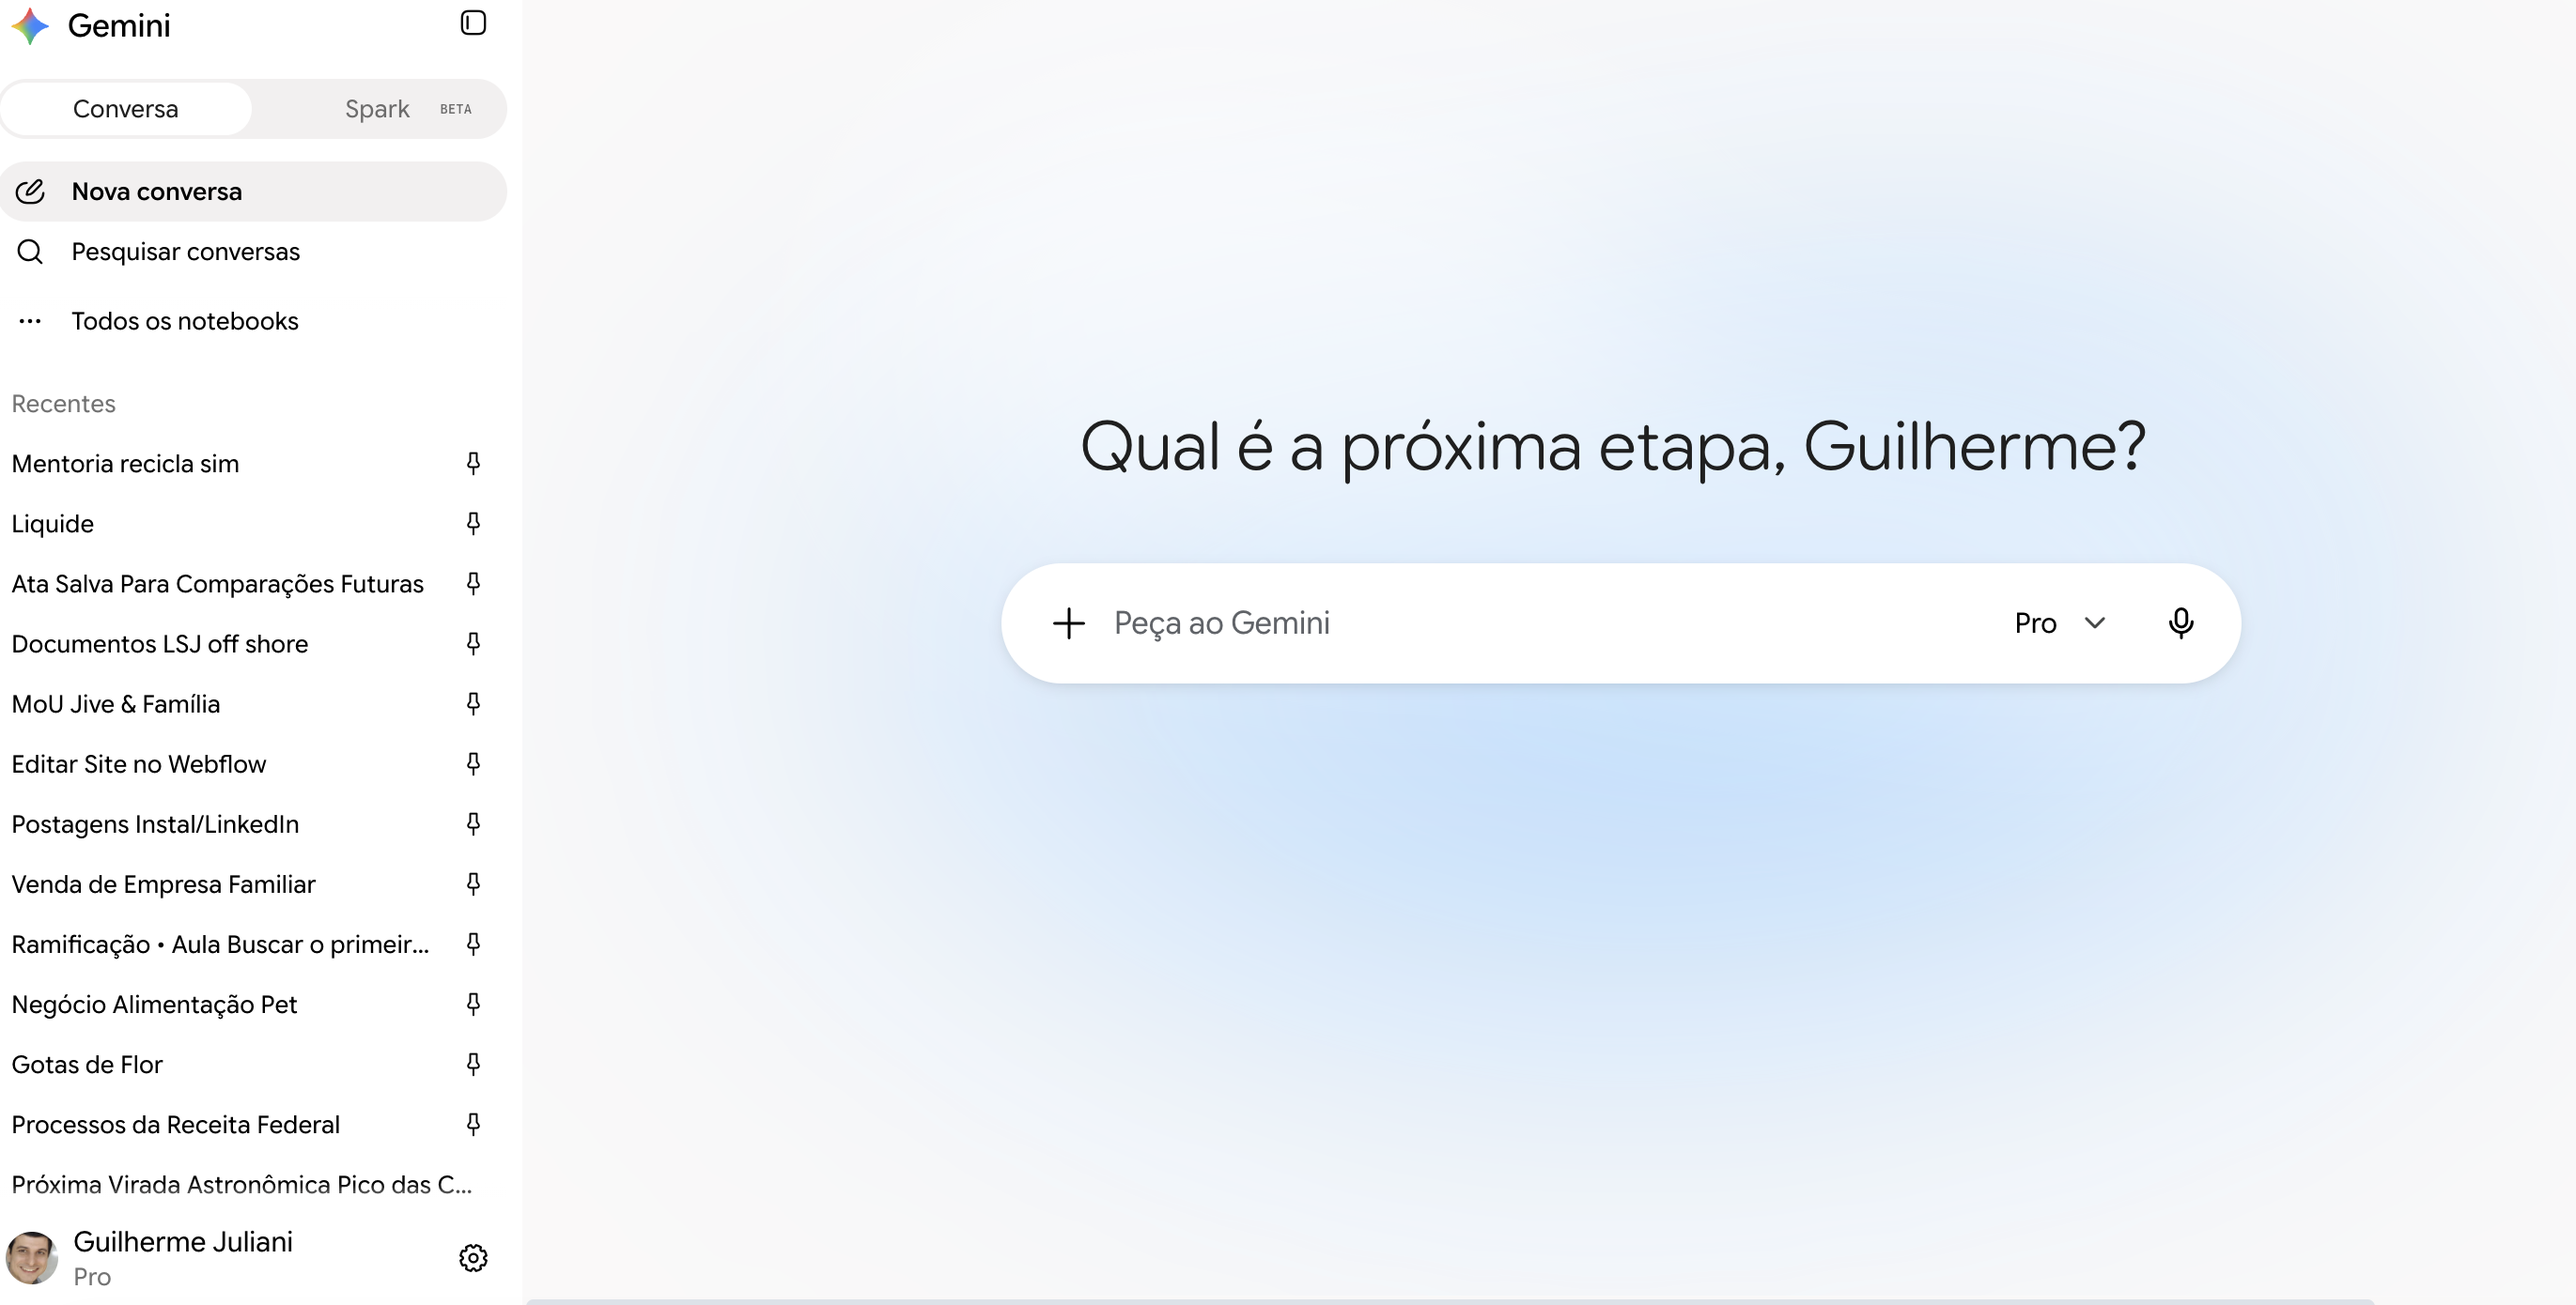
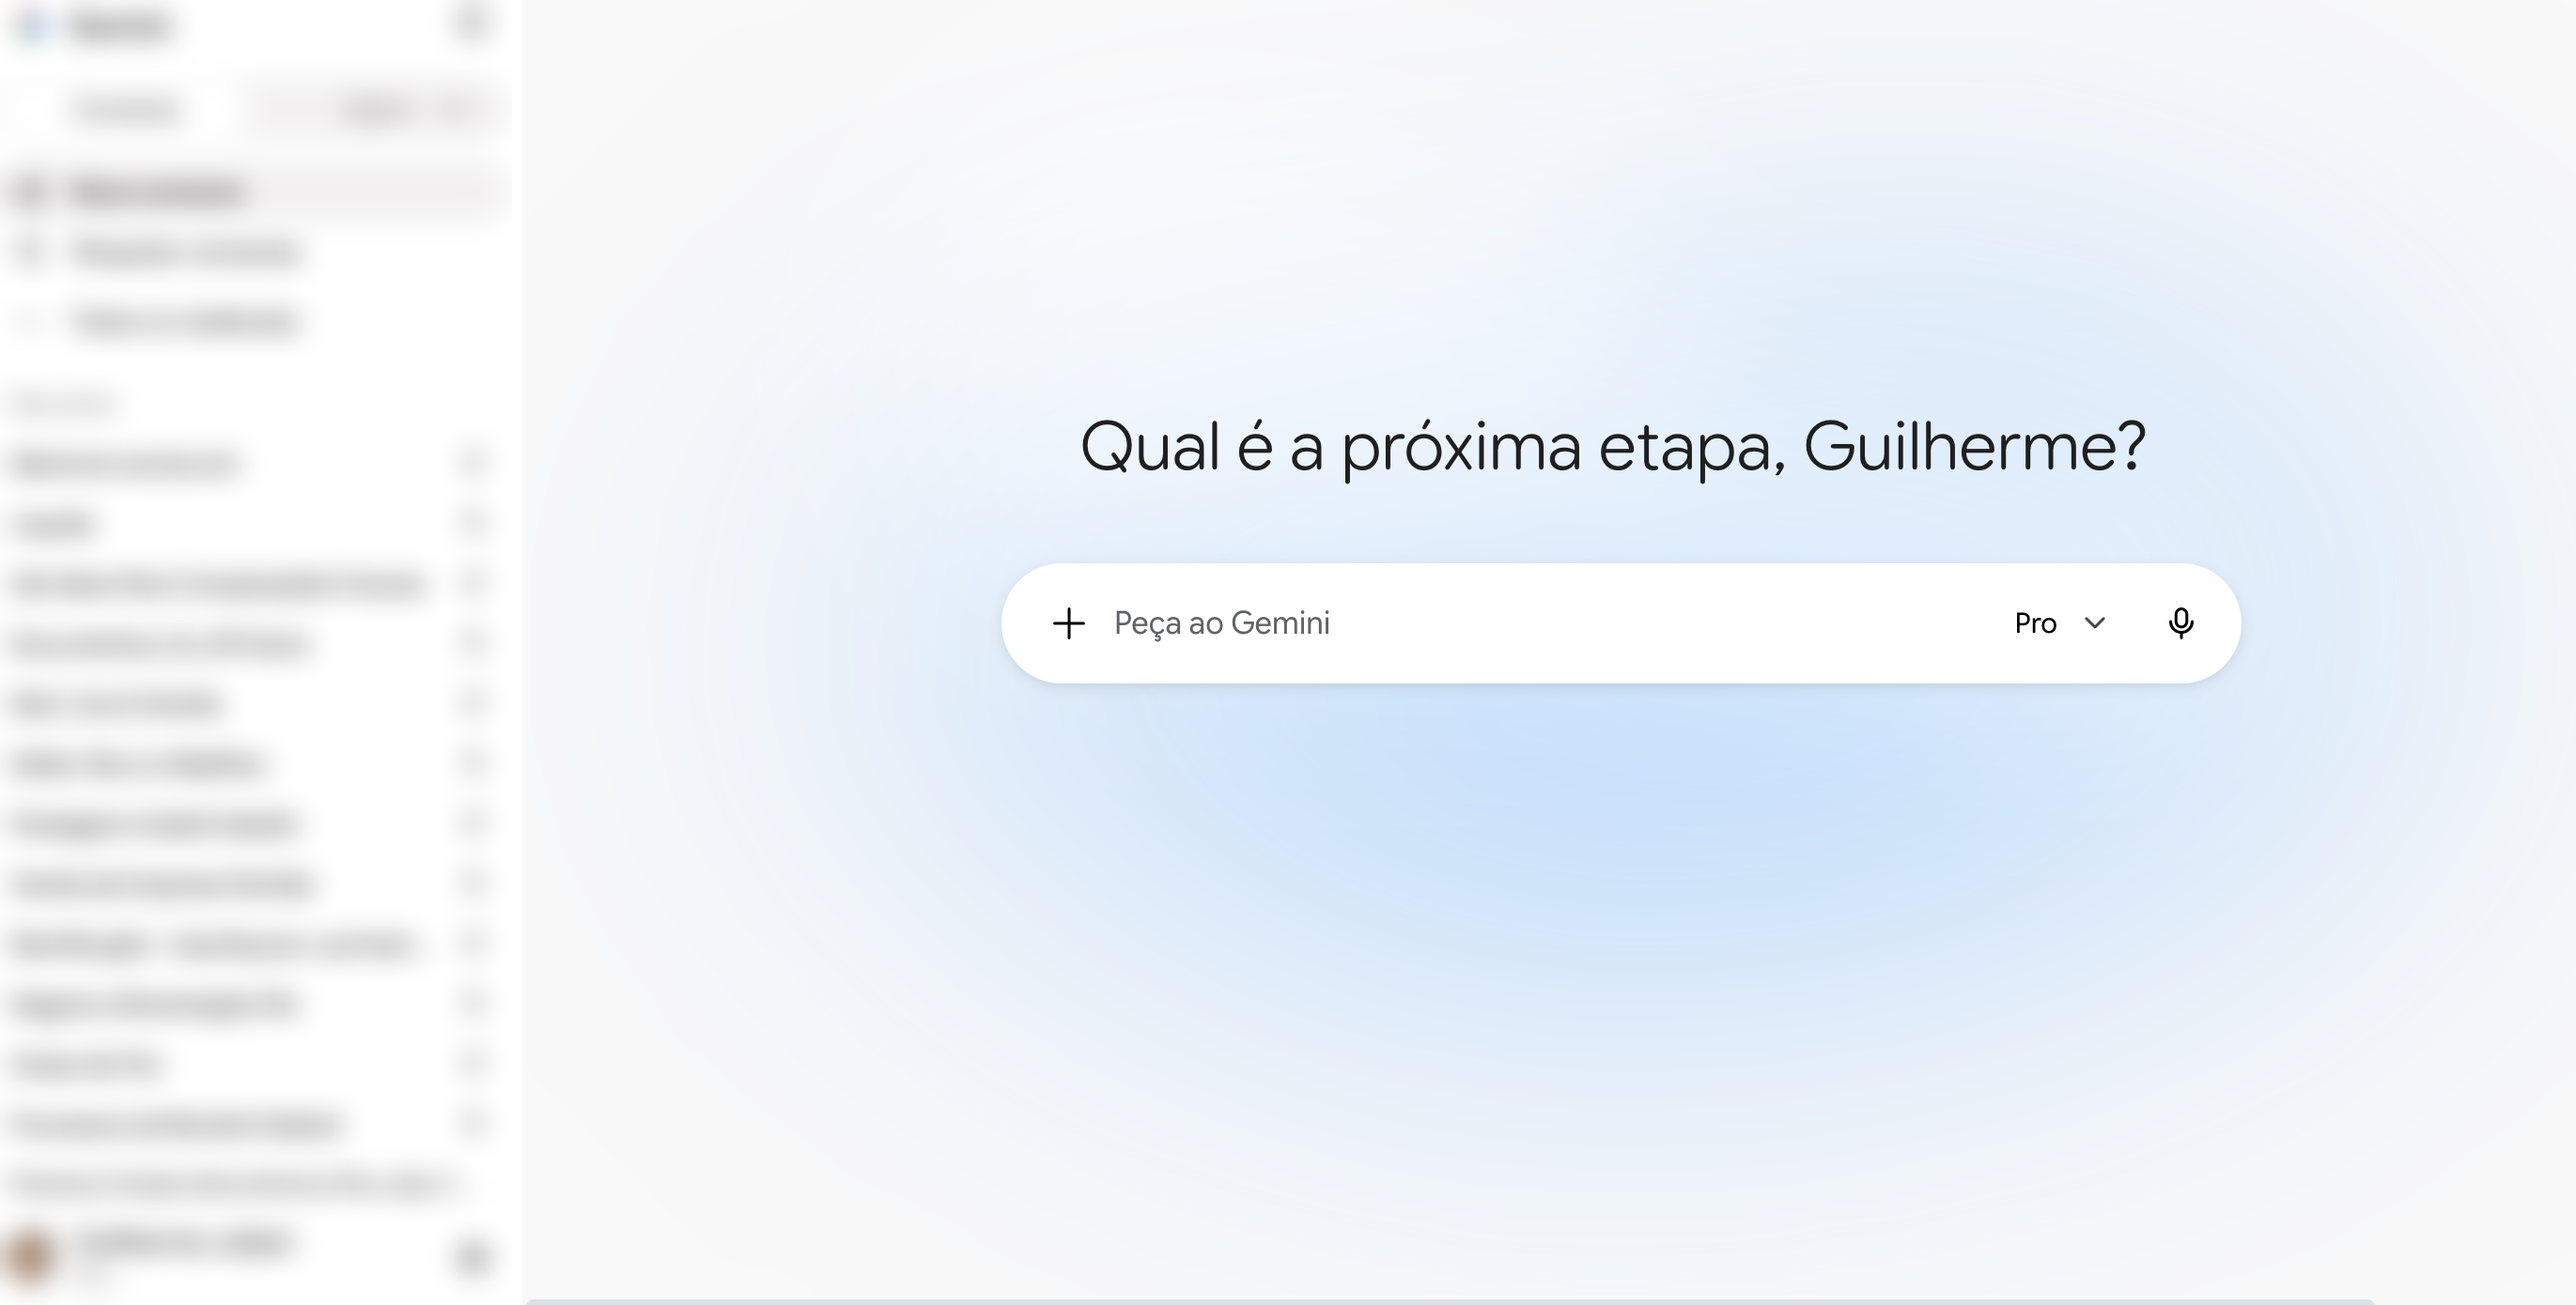
Add files via upload

diff --git a/index.html b/index.html
@@ -2161,14 +2161,14 @@
     updateAutoplayVideo();
   }
 
-  // Toca automaticamente o vídeo do slide 4 assim que ele é exibido
+  // Toca automaticamente o vídeo do slide 5 assim que ele é exibido
   // (mudo, pois navegadores bloqueiam autoplay com som sem interação prévia)
   // e pausa/reseta ao sair do slide, para funcionar tanto na navegação do
   // apresentador quanto na sincronização remota dos espectadores.
   function updateAutoplayVideo(){
-    const videoIframe = document.querySelector('.slide[data-slide="4"] iframe[data-video-src]');
+    const videoIframe = document.querySelector('.slide[data-slide="5"] iframe[data-video-src]');
     if(!videoIframe) return;
-    if(current === 4){
+    if(current === 5){
       if(!videoIframe.getAttribute('src')){
         videoIframe.setAttribute('src', videoIframe.getAttribute('data-video-src') + '&autoplay=1&mute=1');
       }
